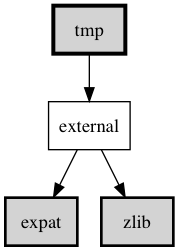
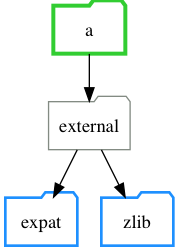
buildorder returns absolute filepath

diff --git a/README.md b/README.md
@@ -44,14 +44,14 @@ other | ./install.sh  (Requires: [mulle-fetch](https://github.com/mulle-nat/mull
 #### Add dependencies with *add*
 
 ```
-$ mulle-sourcetree add https://github.com/libexpat/libexpat/archive/R_2_2_5.tar.gz external/expat
-$ mulle-sourcetree add https://github.com/madler/zlib.git external/zlib
+$ mulle-sourcetree -e add --url https://github.com/libexpat/libexpat/archive/R_2_2_5.tar.gz external/expat
+$ mulle-sourcetree -e add --url https://github.com/madler/zlib.git external/zlib
 ```
 
 #### Fetch dependencies with *update*
 
 ```
-$ mulle-sourcetree update
+$ mulle-sourcetree -e update
 ```
 
 
@@ -60,21 +60,30 @@ $ mulle-sourcetree update
 See your sourcetree with **list**:
 
 ```
-$ mulle-sourcetree list
-url                                                    address     branch  tag  marks
----                                                    -------         ------  ---  -----
-https://github.com/libexpat/libexpat/archive/R_2_2_5.tar.gz  external/expat
-https://github.com/madler/zlib.git                     external/zlib   master
+$ mulle-sourcetree -e list --output-header
+address         nodetype  marks  userinfo  url
+-------         --------  -----  --------  ---
+external/expat  tar                        https://github.com/libexpat/libexpat/archive/R_2_2_5.tar.gz
+external/zlib   git                        https://github.com/madler/zlib.git
 ```
 
 Get a graphical overview with **dotdump**:
 
 ```
-mulle-sourcetree dotdump > pic.dot
+$ mulle-sourcetree -e dotdump > pic.dot
 open pic.dot # view it with Graphviz (http://graphviz.org/)
 ```
 
 ![Picture](pic.png)
+
+
+#### Retrieve projects to build with *buildorder* 
+
+```
+$ mulle-sourcetree -e buildorder
+/private/tmp/a/external/expat
+/private/tmp/a/external/zlib
+```
 
 
 ## GitHub and Mulle kybernetiK
